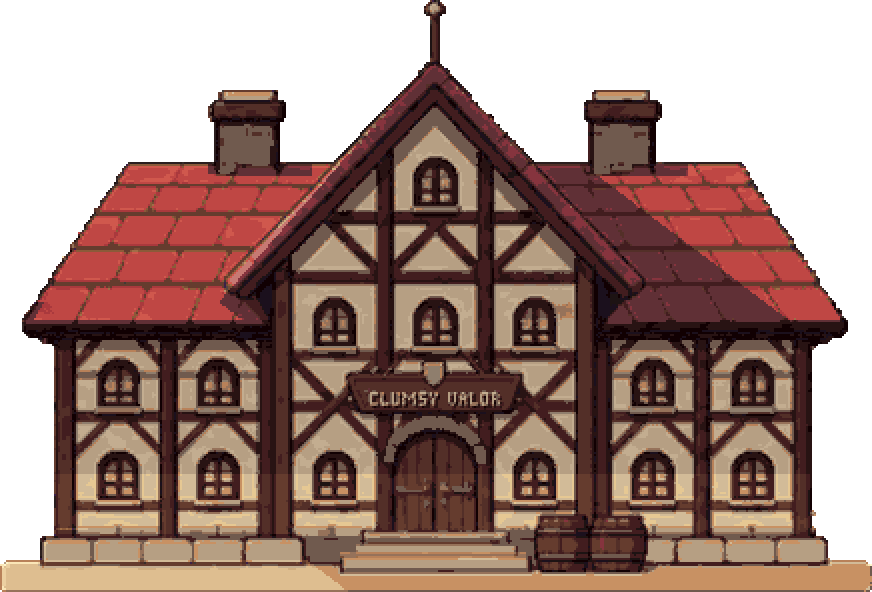
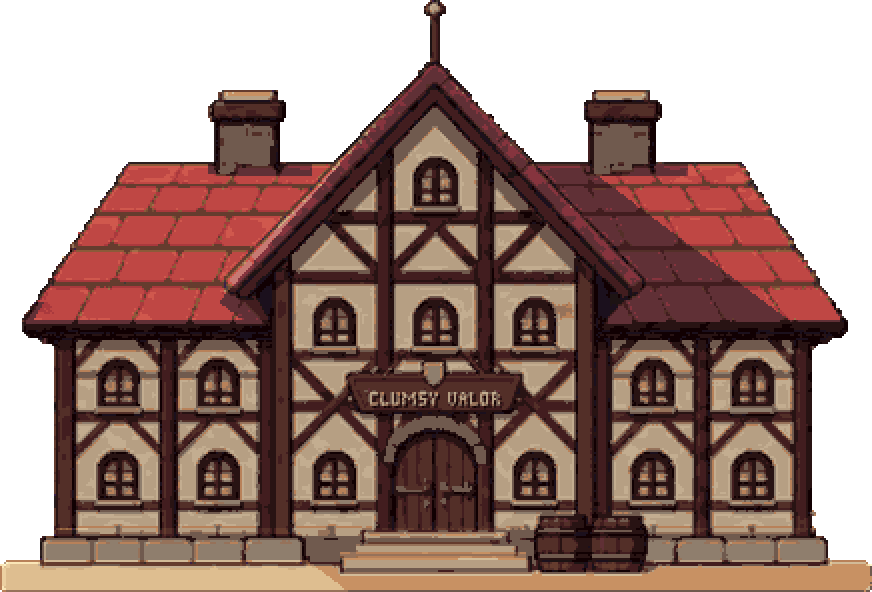
Preview: drop the bounce band (it cut across the windows)
Claude-Session: https://claude.ai/code/session_01FzDataYedfiK9tzFLcKdoU

Changed region(s): [[0.031, 0.7905, 0.9599, 0.973]]

diff --git a/tools/light_proxy.py b/tools/light_proxy.py
@@ -17,7 +17,7 @@ the nearest step of the pixel's own ramp:
   sunlit (N.L > .3)                            +1
   sunlit, glancing                             0 (the evening's orange is the ambient's, lit.gd: not a second step)
   shade, facing up (sees the sky)              -1
-  shade, facing front / down                   -2 (-1 on the lowest fifth: light bounced off the sunlit ground)
+  shade, facing front / down                   -2
   rim: the silhouette's sun-side edge          at least +1 (a backlit edge glows)
   night: -1 everywhere, then each lamp, fire, window: +1 / +2 / +3 by its light on the cell (facing it, unblocked,
          falling off with distance)
@@ -161,9 +161,6 @@ def levels_sun(N, Z, T, m, solid, h, evening, R=None, solids=None):
     lv[sun & (ndl > 0.75)] = 2
     lv[~sun & up] = -1                             # shade that sees the sky
     lv[~sun & ~up] = -2
-    # the shade side is not flat: the low parts of a wall take the light bounced off the sunlit ground (a step up)
-    gy = ys.max()
-    lv[~sun & ~up & (ys > gy - 0.2 * (gy - ys.min()))] = -1
     # rim: the sun-side edge of the silhouette catches the light even when the face behind it is turned away (backlit
     # edges glow); one cell, on the outline facing the sun and on the tops when the sun is up
     h_, w_ = m.shape
